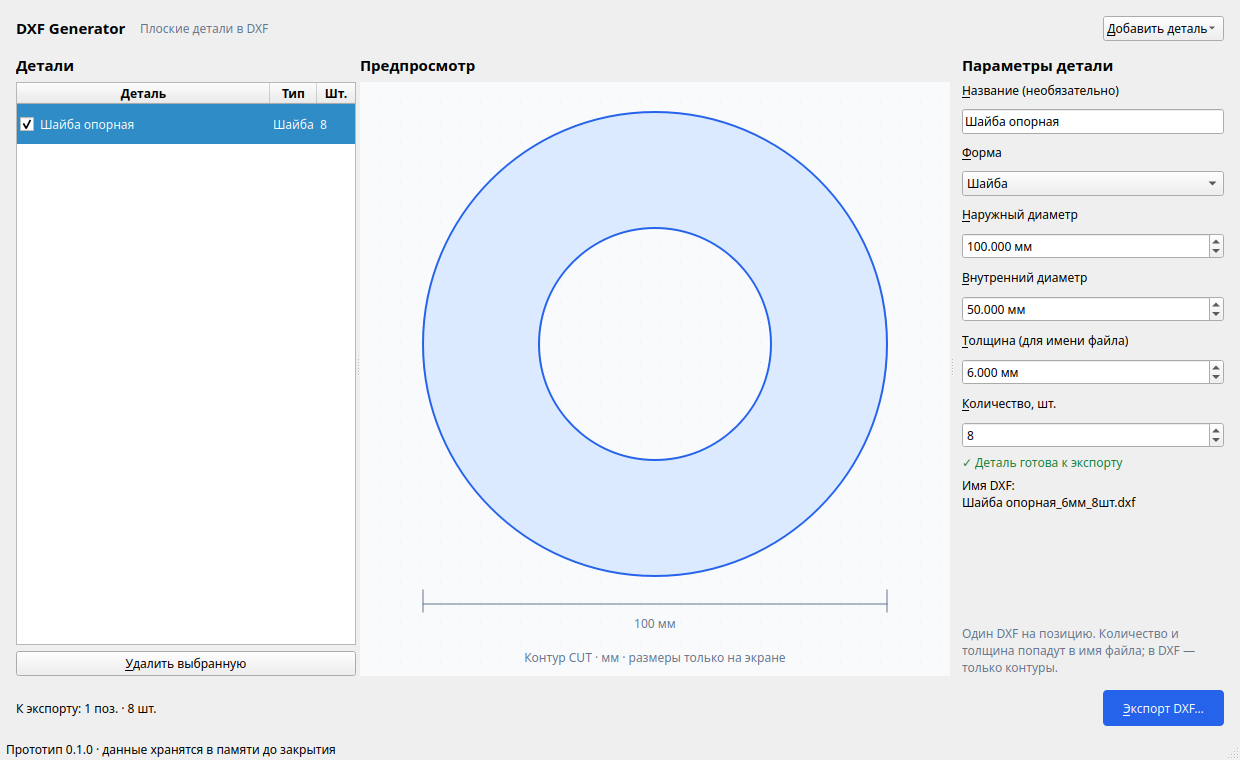
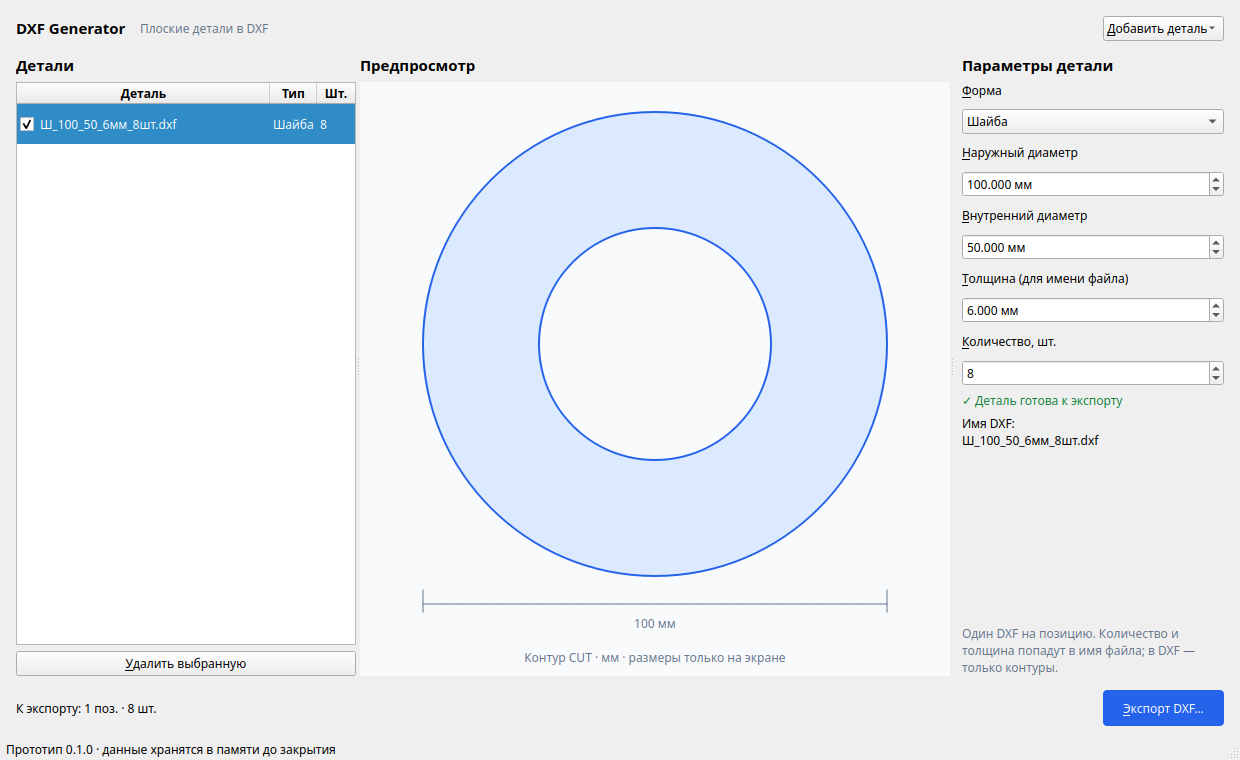
Use automatic CAM filenames for manually created parts

diff --git a/src/desktop/main_window.cpp b/src/desktop/main_window.cpp
@@ -11,7 +11,6 @@
 #include <QFormLayout>
 #include <QHeaderView>
 #include <QLabel>
-#include <QLineEdit>
 #include <QMenu>
 #include <QMessageBox>
 #include <QPushButton>
@@ -108,9 +107,6 @@ MainWindow::MainWindow() {
     auto* form = new QFormLayout;
     form->setRowWrapPolicy(QFormLayout::WrapAllRows);
     form->setVerticalSpacing(10);
-    name_ = new QLineEdit;
-    name_->setPlaceholderText(QStringLiteral("По форме и размерам"));
-    form->addRow(QStringLiteral("&Название (необязательно)"), name_);
     shape_ = new QComboBox;
     shape_->addItems(
         {QStringLiteral("Прямоугольник"), QStringLiteral("Круг"), QStringLiteral("Шайба")});
@@ -183,7 +179,6 @@ MainWindow::MainWindow() {
             loadSelection();
         refreshSummary();
     });
-    connect(name_, &QLineEdit::textEdited, this, [this] { updatePart(); });
     connect(shape_, &QComboBox::currentIndexChanged, this, [this] {
         if (loading_ || !model_->part(currentRow()))
             return;
@@ -214,14 +209,13 @@ void MainWindow::loadSelection() {
         return;
     }
     loading_ = true;
-    name_->setText(QString::fromStdString(value->name));
     shape_->setCurrentIndex(static_cast<int>(value->shape.index()));
     const bool rectangle = std::holds_alternative<Rectangle>(value->shape);
     const bool washer = std::holds_alternative<Washer>(value->shape);
-    firstLabel_->setText(rectangle ? QStringLiteral("&Ширина")
+    firstLabel_->setText(rectangle ? QStringLiteral("&Длина")
                          : washer  ? QStringLiteral("&Наружный диаметр")
                                    : QStringLiteral("&Диаметр"));
-    secondLabel_->setText(rectangle ? QStringLiteral("&Высота")
+    secondLabel_->setText(rectangle ? QStringLiteral("&Ширина")
                                     : QStringLiteral("&Внутренний диаметр"));
     second_->setVisible(rectangle || washer);
     secondLabel_->setVisible(rectangle || washer);
@@ -249,7 +243,6 @@ void MainWindow::updatePart() {
     if (loading_ || !model_->part(currentRow()))
         return;
     Part value = *model_->part(currentRow());
-    value.name = name_->text().toStdString();
     value.quantity = quantity_->value();
     value.thickness =
         thickness_->value() > 0 ? std::optional<double>(thickness_->value()) : std::nullopt;

diff --git a/src/desktop/parts_model.cpp b/src/desktop/parts_model.cpp
@@ -6,7 +6,7 @@
 
 namespace dxfgen {
 PartsModel::PartsModel(QObject* parent) : QAbstractTableModel(parent) {
-    rows_.push_back({{"Шайба опорная", Washer{}, 8, 6.0}, true});
+    rows_.push_back({{"", Washer{}, 8, 6.0}, true});
 }
 int PartsModel::rowCount(const QModelIndex& parent) const {
     return parent.isValid() ? 0 : static_cast<int>(rows_.size());
@@ -66,8 +66,7 @@ void PartsModel::update(int row, Part value) {
 int PartsModel::add(Shape shape) {
     const int row = rowCount();
     beginInsertRows({}, row, row);
-    Part value{
-        std::string(shape_name(shape)) + " " + std::to_string(row + 1), std::move(shape), 1, {}};
+    Part value{"", std::move(shape), 1, {}};
     rows_.push_back({std::move(value), true});
     endInsertRows();
     return row;

diff --git a/src/desktop/main_window.hpp b/src/desktop/main_window.hpp
@@ -5,7 +5,6 @@
 class QComboBox;
 class QDoubleSpinBox;
 class QSpinBox;
-class QLineEdit;
 class QLabel;
 class QPushButton;
 class QTableView;
@@ -29,7 +28,6 @@ class MainWindow final : public QMainWindow {
     PartsModel* model_;
     QTableView* table_;
     PreviewWidget* preview_;
-    QLineEdit* name_;
     QComboBox* shape_;
     QDoubleSpinBox* first_;
     QDoubleSpinBox* second_;

diff --git a/README.md b/README.md
@@ -10,7 +10,7 @@
 
 ## Текущее состояние
 
-Рабочий каркас 0.1: список деталей с включением в экспорт, редактор прямоугольника/круга/шайбы, предпросмотр, проверка размеров и пакетное сохранение DXF. Имя DXF видно до экспорта. Название необязательно: пустое даёт имя из типа и размеров. Порядок полей и суффиксы повторов `(1)`, `(2)` взяты из старого кода; дробные числа в имени всегда с запятой по требованию CAM. Недопустимые имена и уже занятые пути отклоняются до записи пакета. [Правила и примеры имён](docs/cam-filenames.md).
+Рабочий каркас 0.1: список деталей с включением в экспорт, редактор прямоугольника/круга/шайбы, предпросмотр, проверка размеров и пакетное сохранение DXF. При ручном создании поля названия нет: имя DXF автоматически строится из типа и размеров и видно до экспорта. Название из столбца A Excel будет сохраняться при импорте по прежним правилам. Порядок полей и суффиксы повторов `(1)`, `(2)` взяты из старого кода; дробные числа в имени всегда с запятой по требованию CAM. Недопустимые имена и уже занятые пути отклоняются до записи пакета. [Правила и примеры имён](docs/cam-filenames.md).
 
 Параметры пока живут **в памяти**, импорт Excel ещё не реализован. Следующий этап — `.xlsx` и основной экран загрузки списка. Текущий экран и исходный макет ниже показывают промежуточный ручной редактор; его предстоит упростить под основной сценарий.
 

diff --git a/docs/cam-filenames.md b/docs/cam-filenames.md
@@ -14,6 +14,18 @@
 
 Сам парсер CAM и реальные производственные файлы пока не исследованы. Проверки нового кода основаны на прежнем исходнике и подтверждённом разделителе; приёмка в CAM ещё нужна.
 
+## Ручное создание
+
+Поля названия в ручном редакторе нет. Все новые ручные позиции используют автоматическое имя из формы, размеров, толщины и количества:
+
+```text
+П_200_100_6мм_8шт.dxf
+К_150_0_8мм_3шт.dxf
+Ш_100_50_5мм_10шт.dxf
+```
+
+Для ручного круга второе число всегда `0`. Дробные числа — с запятой; без толщины соответствующая часть имени отсутствует. Имя отображается до экспорта и обновляется вместе с параметрами. Пользовательское название остаётся только в данных из Excel: непустой столбец A сохраняет прежнее поведение, пустой A включает ту же автоматическую схему. Правка размеров импортированной позиции не должна стирать её исходное название.
+
 ## Прежняя таблица Excel
 
 Первый лист, первая строка — заголовок, данные начиная со строки 2. Колонки читаются по позиции:

diff --git a/docs/architecture.md b/docs/architecture.md
@@ -23,7 +23,7 @@
 2. Основное место занимает таблица: строка Excel, название, форма, размеры, толщина, количество, итоговое имя DXF и результат проверки. Для выбранной строки — компактный предпросмотр.
 3. Снизу — число готовых позиций, ошибки и действие «Экспортировать DXF…» с выбором папки. Ошибки данных видны до выбора папки. До записи проверяются все выбранные строки и будущие пути.
 
-Текущий экран каркаса с ручным редактором — промежуточный. Новые функции ручного редактирования не являются условием готовности основного сценария.
+Текущий экран каркаса с ручным редактором — промежуточный. В нём нет поля названия: ручные позиции получают автоматические имена из формы и размеров. Название остаётся метаданными Excel и сохраняется при правке параметров импортированной позиции. Новые функции ручного редактирования не являются условием готовности основного сценария.
 
 ## Инварианты
 

diff --git a/AGENTS.md b/AGENTS.md
@@ -3,6 +3,7 @@
 - Keep this a small offline C++20/Qt Widgets utility for Windows 10/11 x64, developed on Linux.
 - The primary workflow is Excel list → row validation and preview → DXF files in a chosen folder. Prioritize this complete path over manual editing features. Project/kit files, CSV, nesting, materials and Undo/Redo are outside the current scope.
 - DXF filenames are an interface consumed by CAM. Follow `docs/cam-filenames.md`: comma decimals independent of OS locale, optional source name, legacy field order and `(1)` duplicate suffixes. Do not silently sanitize identifiers or invent separators/suffixes.
+- Manual creation has no name input: use automatic shape/dimension filenames. The optional custom name is only source metadata from Excel; keep it when editing imported parameters.
 - `dxfgen_core` must have no Qt or other third-party dependencies. Geometry, validation and DXF serialization belong here, not in widgets.
 - Preview and export must consume the same generated geometry. Dimensions are a preview overlay, never cutting geometry.
 - Default configuration must not download dependencies. Add libraries only for implemented requirements; document purpose, version, license and binary-size impact.
